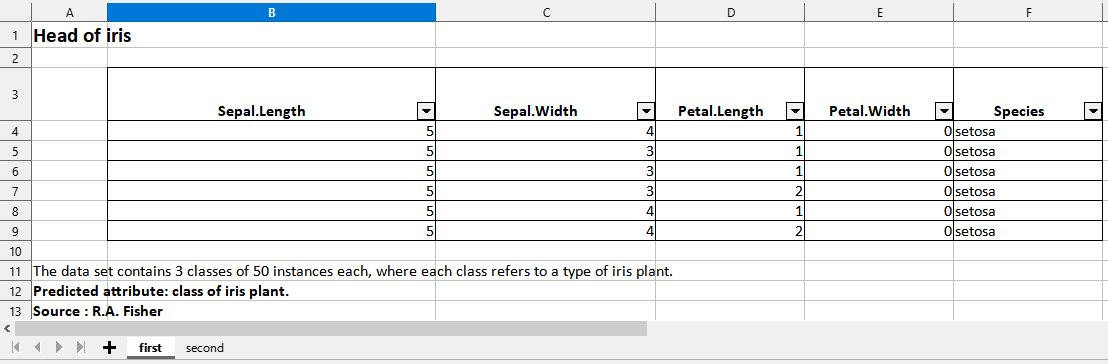
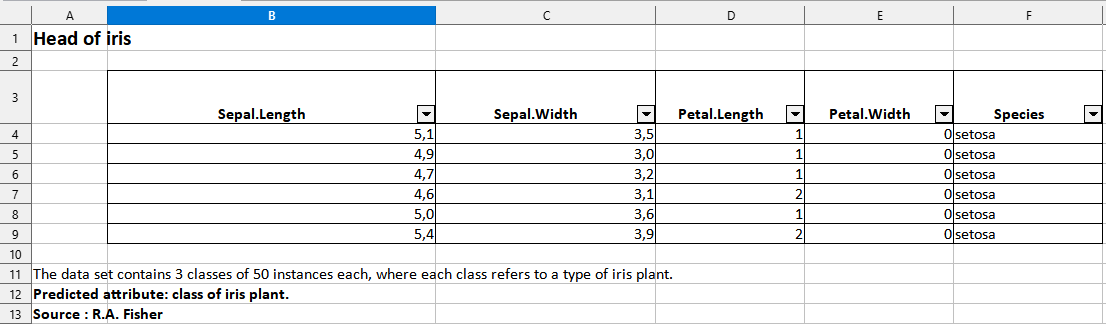
Update example in README with decimal style

diff --git a/README.md b/README.md
@@ -47,8 +47,8 @@ list(iris,cars) %>%
                         "cars" = "second"),
          title = list("iris" = "Head of iris",
                       "cars" = "Head of cars"),
-         columnstyle = list("iris" = list("c1" = "number",
-                                          "c2" = "number",
+         columnstyle = list("iris" = list("c1" = "decimal",
+                                          "c2" = "decimal",
                                           "c3" = "number",
                                           "c4" = "number",
                                           "c5" = "character"),
